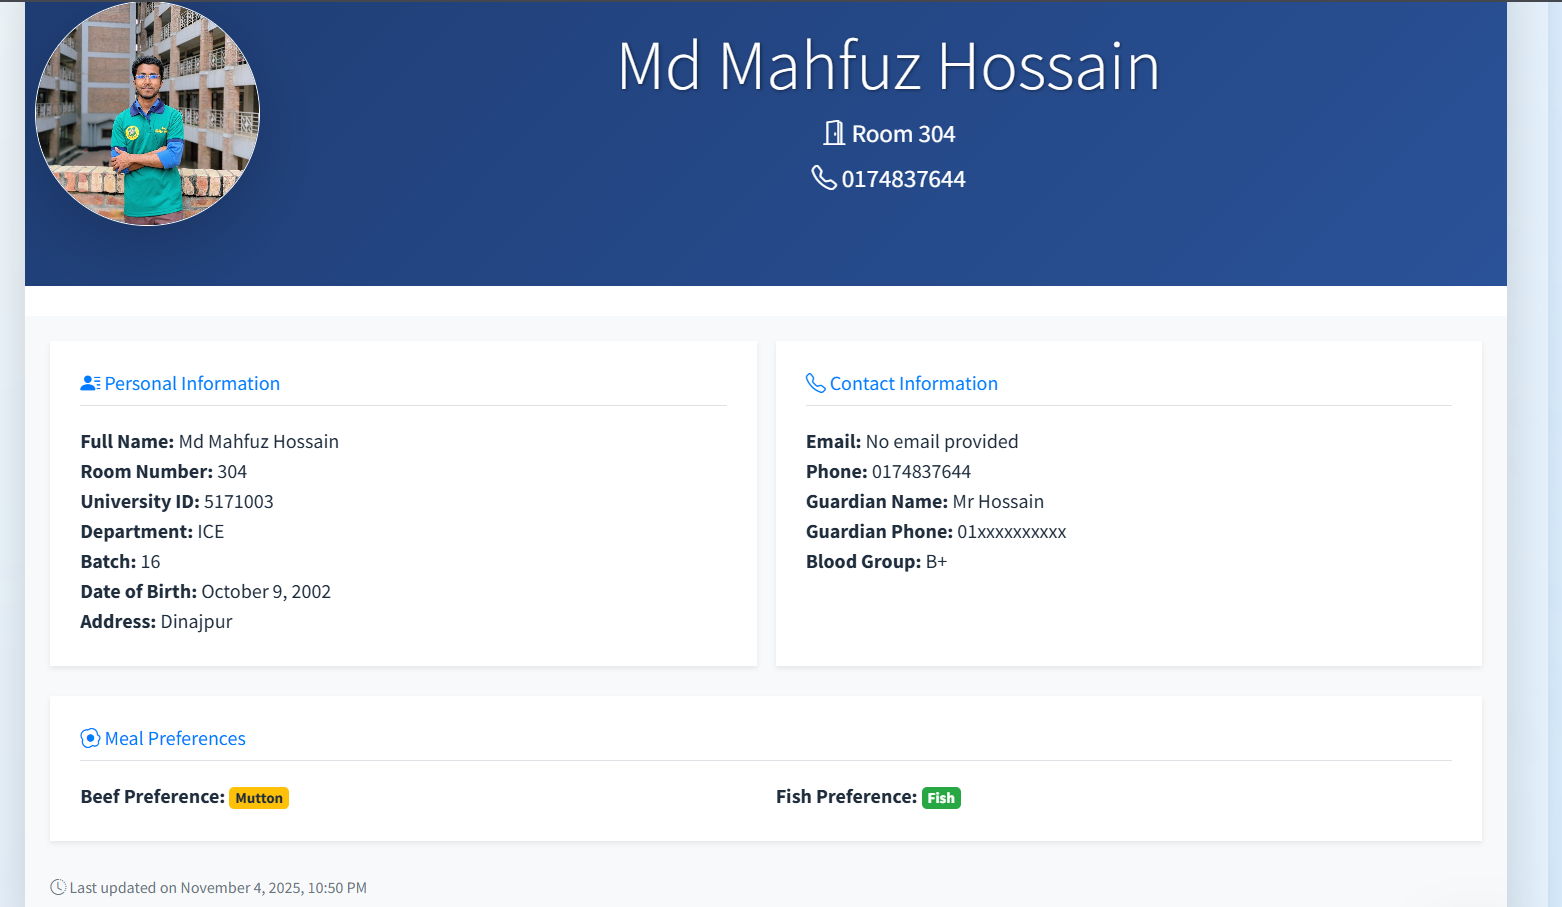
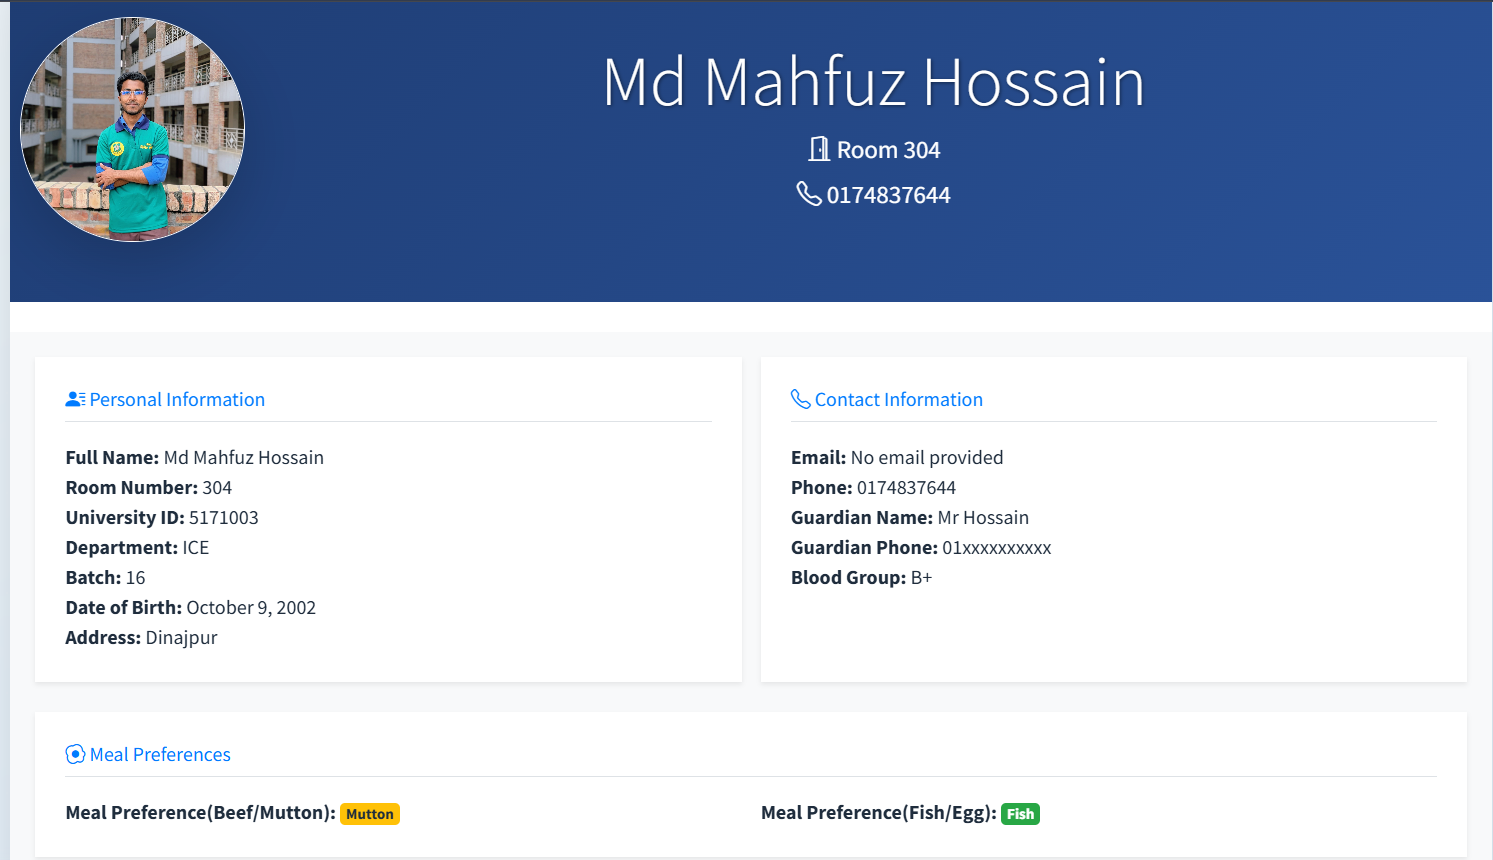
Add project screenshots

diff --git a/templates/students/profile.html b/templates/students/profile.html
@@ -101,7 +101,7 @@
                 </h5>
                 <div class="row mt-3">
                     <div class="col-md-6">
-                        <strong>Beef Preference:</strong>
+                        <strong>Meal Preference(Beef/Mutton):</strong>
                         {% if latest_meal %}
                             {% if latest_meal.prefers_beef %}
                                 <span class="badge bg-success ms-2">Beef</span>
@@ -117,7 +117,7 @@
                         {% endif %}
                     </div>
                     <div class="col-md-6">
-                        <strong>Fish Preference:</strong>
+                        <strong>Meal Preference(Fish/Egg):</strong>
                         {% if latest_meal %}
                             {% if latest_meal.prefers_fish %}
                                 <span class="badge bg-success ms-2">Fish</span>
